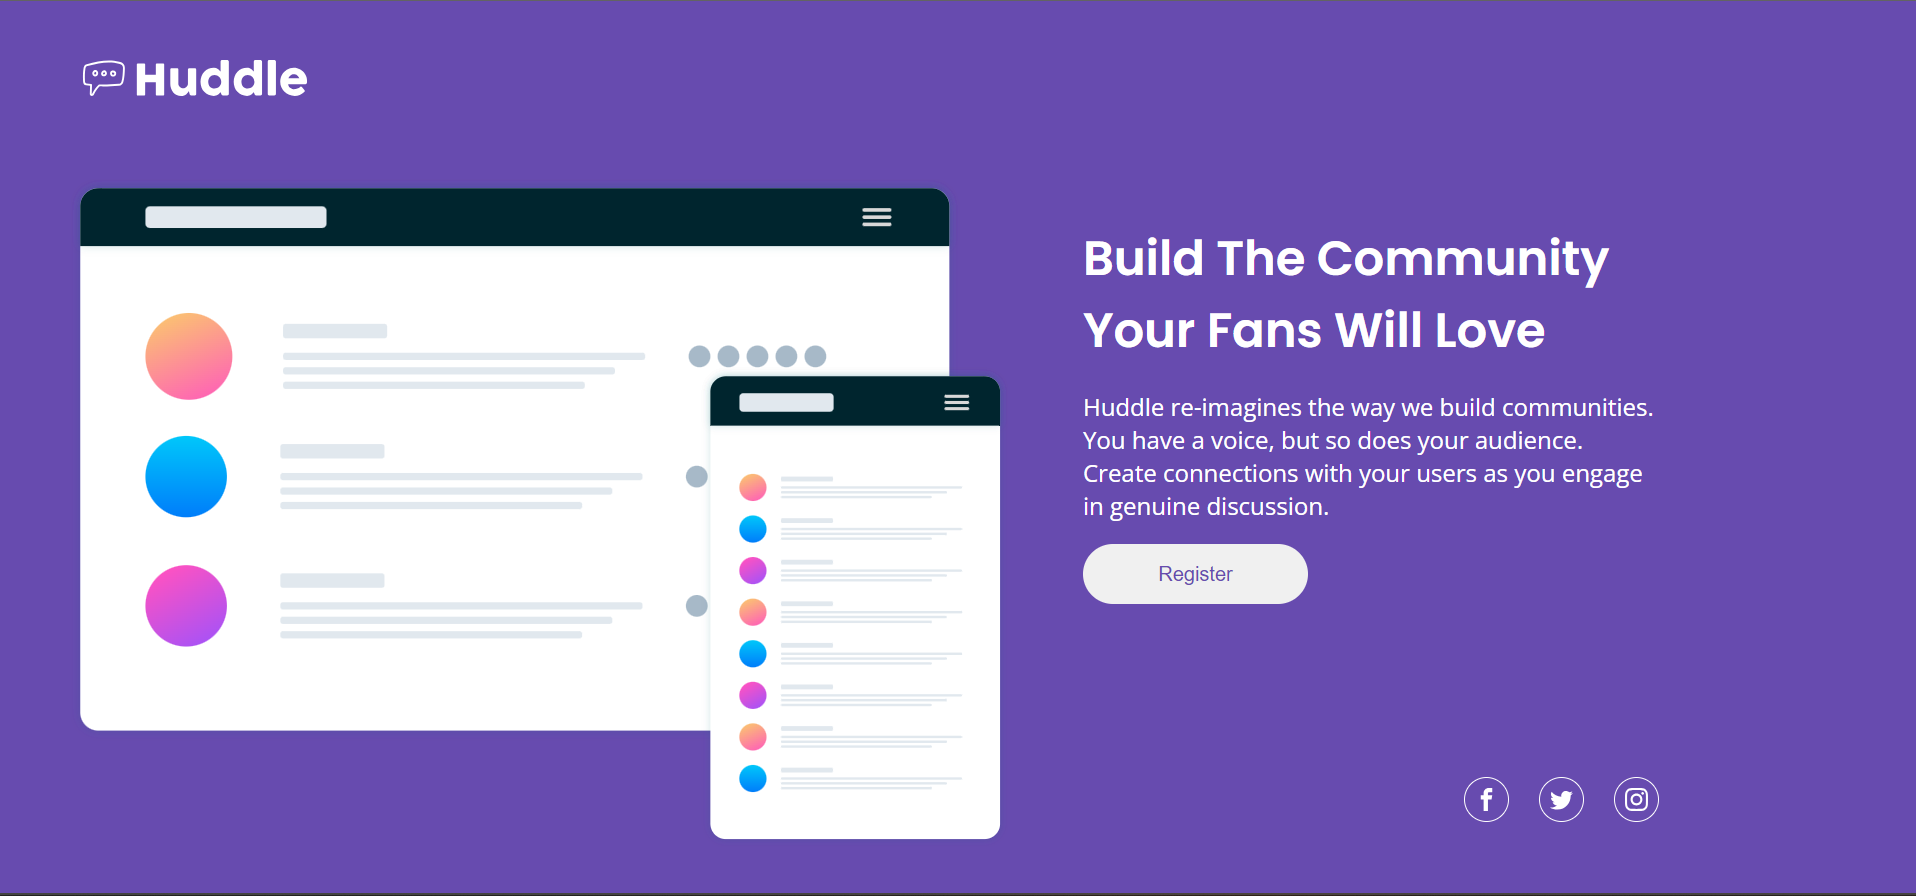
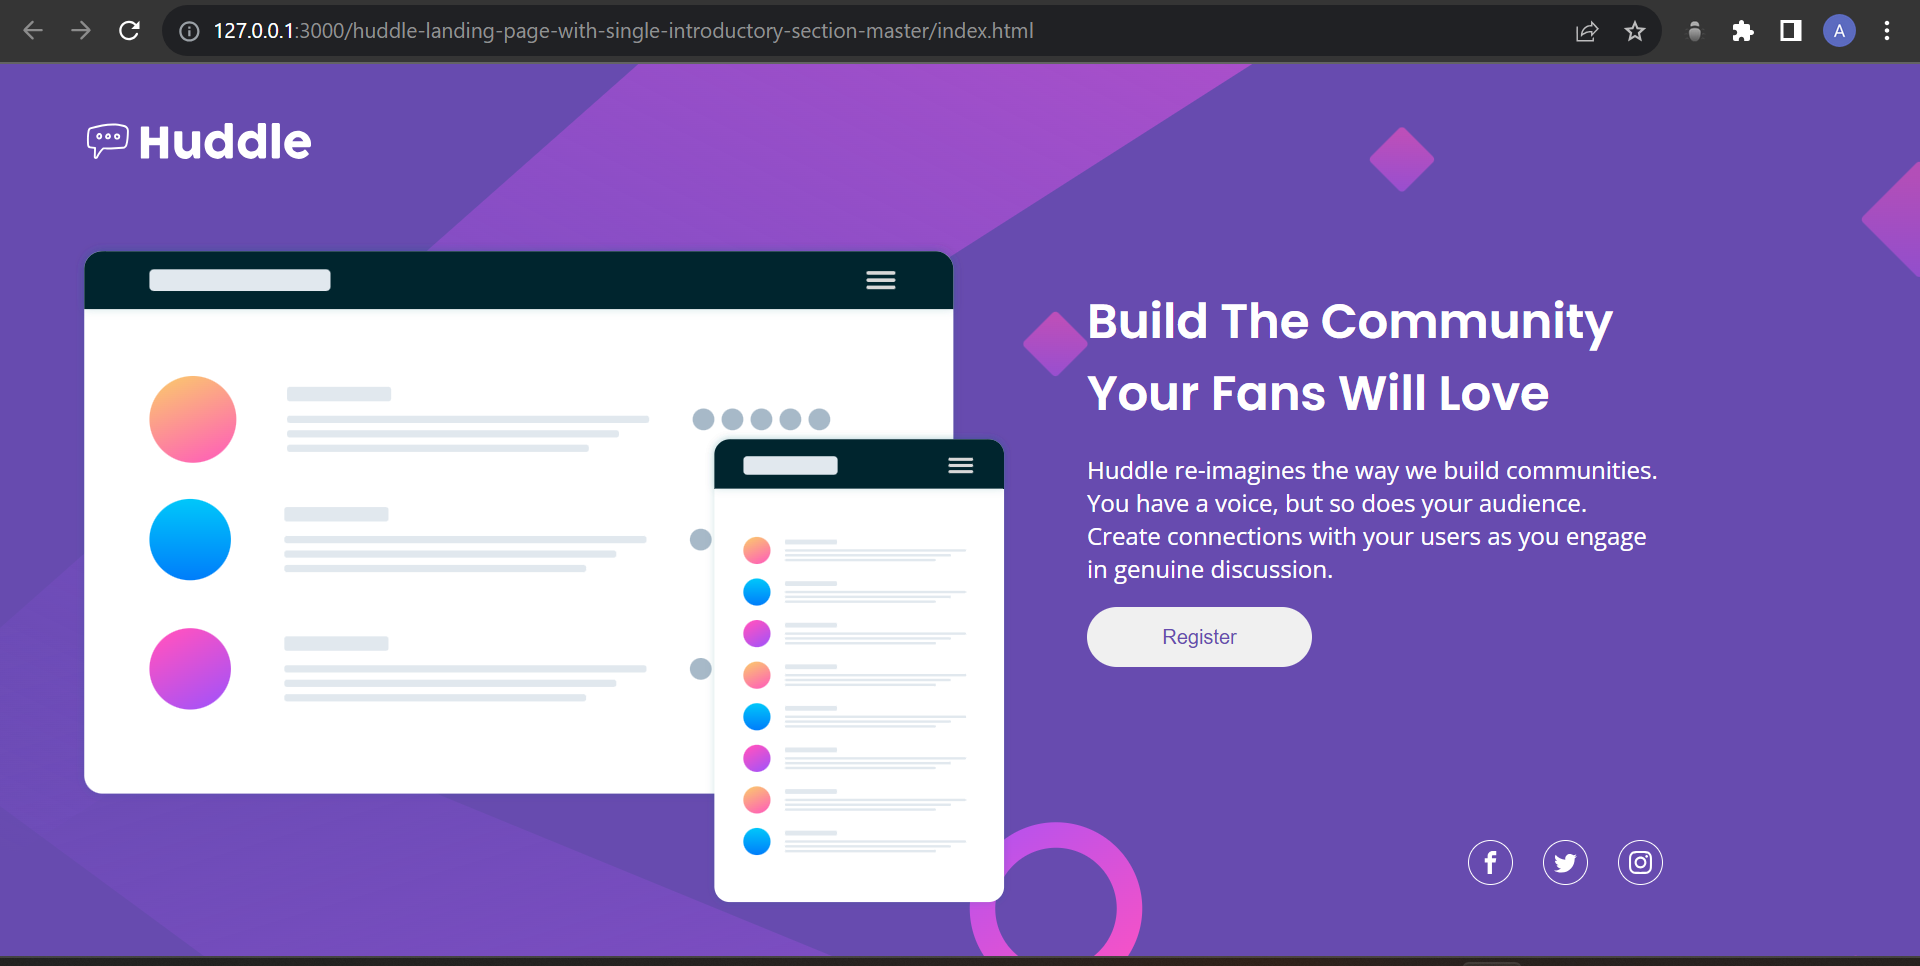
adjusted the background path

diff --git a/css/style.css b/css/style.css
@@ -5,7 +5,7 @@
 }
 body {
   height: 100vh;
-  background: url(./images/bg-desktop.svg);
+  background: url(../images/bg-desktop.svg);
   background-color: hsl(257, 40%, 49%);
   overflow: hidden;
   display: flex;
